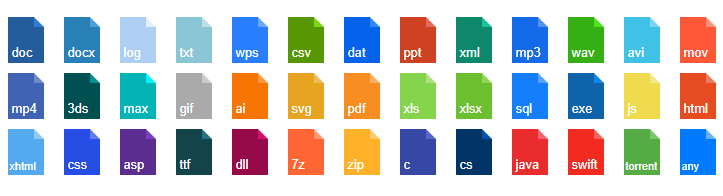
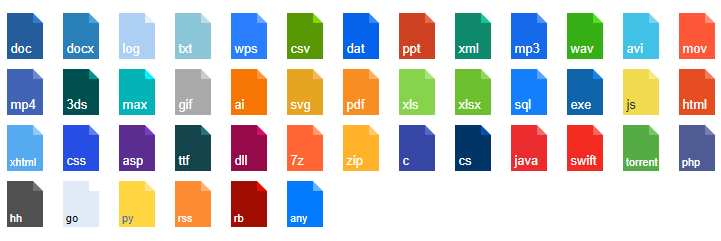
update landing

diff --git a/build/css-file-icons.css b/build/css-file-icons.css
@@ -1,1 +1,1 @@
-.fi{width:36px;height:46px;padding:10px 0 0;position:relative;margin:0 auto;transition:all .2s ease-in-out;cursor:pointer;box-sizing:border-box;font-family:sans-serif;text-decoration:none;display:block}.fi:after,.fi:before{position:absolute;content:"";pointer-events:none}.fi:before{top:0;height:100%;left:0;background-color:#007bff;right:10px}.fi:after{width:0;height:0;border-style:solid;border-width:10px 0 0 10px;border-color:transparent transparent transparent #66b0ff;top:0;right:0}.fi:hover{transform:translateY(-5px)}.fi-content{background-color:#007bff;top:10px;color:#fff;left:0;bottom:0;right:0;padding:16.5px .3em 0;font-size:13px;font-weight:500;position:absolute}.fi-doc.fi:before{background-color:#235d9c}.fi-doc.fi:after{border-left-color:#317dd1}.fi-doc.fi .fi-content{background-color:#235d9c;color:#fff}.fi-docx.fi:before{background-color:#2980b9}.fi-docx.fi:after{border-left-color:#4da1d8}.fi-docx.fi .fi-content{background-color:#2980b9;color:#fff}.fi-log.fi:before{background-color:#accff3}.fi-log.fi:after{border-left-color:#e6f0fb}.fi-log.fi .fi-content{background-color:#accff3;color:#fff}.fi-txt.fi:before{background-color:#8bc6d6}.fi-txt.fi:after{border-left-color:#bcdee7}.fi-txt.fi .fi-content{background-color:#8bc6d6;color:#fff}.fi-wps.fi:before{background-color:#297eff}.fi-wps.fi:after{border-left-color:#6ba6ff}.fi-wps.fi .fi-content{background-color:#297eff;color:#fff}.fi-csv.fi:before{background-color:#579704}.fi-csv.fi:after{border-left-color:#7cd806}.fi-csv.fi .fi-content{background-color:#579704;color:#fff}.fi-dat.fi:before{background-color:#0463ea}.fi-dat.fi:after{border-left-color:#3587fc}.fi-dat.fi .fi-content{background-color:#0463ea;color:#fff}.fi-ppt.fi:before{background-color:#ce4123}.fi-ppt.fi:after{border-left-color:#e26b52}.fi-ppt.fi .fi-content{background-color:#ce4123;color:#fff}.fi-xml.fi:before{background-color:#0e886b}.fi-xml.fi:after{border-left-color:#14c49a}.fi-xml.fi .fi-content{background-color:#0e886b;color:#fff}.fi-mp3.fi:before{background-color:#156aea}.fi-mp3.fi:after{border-left-color:#5291ef}.fi-mp3.fi .fi-content{background-color:#156aea;color:#fff}.fi-wav.fi:before{background-color:#36af14}.fi-wav.fi:after{border-left-color:#4be520}.fi-wav.fi .fi-content{background-color:#36af14;color:#fff}.fi-avi.fi:before{background-color:#40c1e6}.fi-avi.fi:after{border-left-color:#7bd4ee}.fi-avi.fi .fi-content{background-color:#40c1e6;color:#fff}.fi-mov.fi:before{background-color:#ff5838}.fi-mov.fi:after{border-left-color:#ff907a}.fi-mov.fi .fi-content{background-color:#ff5838;color:#fff}.fi-mp4.fi:before{background-color:#4163b4}.fi-mp4.fi:after{border-left-color:#6d89ca}.fi-mp4.fi .fi-content{background-color:#4163b4;color:#fff}.fi-3ds.fi:before{background-color:#015051}.fi-3ds.fi:after{border-left-color:#029192}.fi-3ds.fi .fi-content{background-color:#015051;color:#fff}.fi-max.fi:before{background-color:#02b4b6}.fi-max.fi:after{border-left-color:#03f4f7}.fi-max.fi .fi-content{background-color:#02b4b6;color:#fff}.fi-gif.fi:before{background-color:#aaa}.fi-gif.fi:after{border-left-color:#cbcbcb}.fi-gif.fi .fi-content{background-color:#aaa;color:#fff}.fi-ai.fi:before{background-color:#f67503}.fi-ai.fi:after{border-left-color:#fd983f}.fi-ai.fi .fi-content{background-color:#f67503;color:#fff}.fi-svg.fi:before{background-color:#e6a420}.fi-svg.fi:after{border-left-color:#edbc5c}.fi-svg.fi .fi-content{background-color:#e6a420;color:#fff}.fi-pdf.fi:before{background-color:#f88e21}.fi-pdf.fi:after{border-left-color:#faaf61}.fi-pdf.fi .fi-content{background-color:#f88e21;color:#fff}.fi-xls.fi:before{background-color:#86d44c}.fi-xls.fi:after{border-left-color:#aae181}.fi-xls.fi .fi-content{background-color:#86d44c;color:#fff}.fi-xlsx.fi:before{background-color:#6cbf2e}.fi-xlsx.fi:after{border-left-color:#8ed758}.fi-xlsx.fi .fi-content{background-color:#6cbf2e;color:#fff}.fi-sql.fi:before{background-color:#157efb}.fi-sql.fi:after{border-left-color:#56a2fc}.fi-sql.fi .fi-content{background-color:#157efb;color:#fff}.fi-exe.fi:before{background-color:#0e63ab}.fi-exe.fi:after{border-left-color:#1386e8}.fi-exe.fi .fi-content{background-color:#0e63ab;color:#fff}.fi-js.fi:before{background-color:#f0db4f}.fi-js.fi:after{border-left-color:#f5e78c}.fi-js.fi .fi-content{background-color:#f0db4f;color:#323330}.fi-html.fi:before{background-color:#e54c21}.fi-html.fi:after{border-left-color:#ec7c5c}.fi-html.fi .fi-content{background-color:#e54c21;color:#fff}.fi-xhtml.fi:before{background-color:#55a9ef}.fi-xhtml.fi:after{border-left-color:#92c8f5}.fi-xhtml.fi .fi-content{background-color:#55a9ef;color:#fff}.fi-css.fi:before{background-color:#264de4}.fi-css.fi:after{border-left-color:#617deb}.fi-css.fi .fi-content{background-color:#264de4;color:#fff}.fi-asp.fi:before{background-color:#5c2d91}.fi-asp.fi:after{border-left-color:#7c3dc3}.fi-asp.fi .fi-content{background-color:#5c2d91;color:#fff}.fi-ttf.fi:before{background-color:#14444b}.fi-ttf.fi:after{border-left-color:#22737f}.fi-ttf.fi .fi-content{background-color:#14444b;color:#fff}.fi-dll.fi:before{background-color:#960a4a}.fi-dll.fi:after{border-left-color:#d40e69}.fi-dll.fi .fi-content{background-color:#960a4a;color:#fff}.fi-7z.fi:before{background-color:#f63}.fi-7z.fi:after{border-left-color:#ff9875}.fi-7z.fi .fi-content{background-color:#f63;color:#fff}.fi-zip.fi:before{background-color:#ffb229}.fi-zip.fi:after{border-left-color:#ffca6b}.fi-zip.fi .fi-content{background-color:#ffb229;color:#fff}.fi-c.fi:before{background-color:#3747a5}.fi-c.fi:after{border-left-color:#5767c7}.fi-c.fi .fi-content{background-color:#3747a5;color:#fff}.fi-cs.fi:before{background-color:#013467}.fi-cs.fi:after{border-left-color:#0255a9}.fi-cs.fi .fi-content{background-color:#013467;color:#fff}.fi-java.fi:before{background-color:#ea2c2e}.fi-java.fi:after{border-left-color:#f0686a}.fi-java.fi .fi-content{background-color:#ea2c2e;color:#fff}.fi-swift.fi:before{background-color:#f32a20}.fi-swift.fi:after{border-left-color:#f6665f}.fi-swift.fi .fi-content{background-color:#f32a20;color:#fff}.fi-torrent.fi:before{background-color:#55ac44}.fi-torrent.fi:after{border-left-color:#7bc56d}.fi-torrent.fi .fi-content{background-color:#55ac44;color:#fff}.fi-php.fi:before{background-color:#4f5b93}.fi-php.fi:after{border-left-color:#717db3}.fi-php.fi .fi-content{background-color:#4f5b93;color:#fff}.fi-hh.fi:before{background-color:#505050}.fi-hh.fi:after{border-left-color:#717171}.fi-hh.fi .fi-content{background-color:#505050;color:#fff}.fi-go.fi:before{background-color:#e0ebf5}.fi-go.fi:after{border-left-color:#fff}.fi-go.fi .fi-content{background-color:#e0ebf5;color:#000}.fi-py.fi:before{background-color:#ffd542}.fi-py.fi:after{border-left-color:#ffe484}.fi-py.fi .fi-content{background-color:#ffd542;color:#3472a3}.fi-rss.fi:before{background-color:#fd8b33}.fi-rss.fi:after{border-left-color:#feb075}.fi-rss.fi .fi-content{background-color:#fd8b33;color:#fff}.fi-rb.fi:before{background-color:#a20d01}.fi-rb.fi:after{border-left-color:#e41201}.fi-rb.fi .fi-content{background-color:#a20d01;color:#fff}.fi-size-xs.fi{width:28.8px;height:36.8px;padding-top:8px}.fi-size-xs.fi:before{right:8px}.fi-size-xs.fi:after{border-top-width:8px;border-left-width:8px}.fi-size-xs.fi .fi-content{top:8px;padding-top:13.2px;font-size:10.4px}.fi-size-sm.fi{width:36px;height:46px;padding-top:10px}.fi-size-sm.fi:before{right:10px}.fi-size-sm.fi:after{border-top-width:10px;border-left-width:10px}.fi-size-sm.fi .fi-content{top:10px;padding-top:16.5px;font-size:13px}.fi-size-md.fi{width:43.2px;height:55.2px;padding-top:12px}.fi-size-md.fi:before{right:12px}.fi-size-md.fi:after{border-top-width:12px;border-left-width:12px}.fi-size-md.fi .fi-content{top:12px;padding-top:19.8px;font-size:15.6px}.fi-size-lg.fi{width:54px;height:69px;padding-top:15px}.fi-size-lg.fi:before{right:15px}.fi-size-lg.fi:after{border-top-width:15px;border-left-width:15px}.fi-size-lg.fi .fi-content{top:15px;padding-top:24.75px;font-size:19.5px}.fi-size-xl.fi{width:72px;height:92px;padding-top:20px}.fi-size-xl.fi:before{right:20px}.fi-size-xl.fi:after{border-top-width:20px;border-left-width:20px}.fi-size-xl.fi .fi-content{top:20px;padding-top:33px;font-size:26px}.fi-content-xs .fi-content{font-size:11px;padding-top:55%}
+.fi{width:36px;height:46px;padding:10px 0 0;position:relative;margin:0 auto;transition:all .2s ease-in-out;cursor:pointer;box-sizing:border-box;font-family:sans-serif;text-decoration:none;display:block}.fi:after,.fi:before{position:absolute;content:"";pointer-events:none}.fi:before{top:0;height:100%;left:0;background-color:#007bff;right:10px}.fi:after{width:0;height:0;border-style:solid;border-width:10px 0 0 10px;border-color:transparent transparent transparent #66b0ff;top:0;right:0}.fi:hover{transform:translateY(-5px)}.fi-content{background-color:#007bff;top:10px;color:#fff;left:0;bottom:0;right:0;padding:16.5px .3em 0;font-size:13px;font-weight:500;position:absolute}.fi-doc.fi:before{background-color:#235d9c}.fi-doc.fi:after{border-left-color:#317dd1}.fi-doc.fi .fi-content{background-color:#235d9c;color:#fff}.fi-docx.fi:before{background-color:#2980b9}.fi-docx.fi:after{border-left-color:#4da1d8}.fi-docx.fi .fi-content{background-color:#2980b9;color:#fff}.fi-log.fi:before{background-color:#accff3}.fi-log.fi:after{border-left-color:#e6f0fb}.fi-log.fi .fi-content{background-color:#accff3;color:#fff}.fi-txt.fi:before{background-color:#8bc6d6}.fi-txt.fi:after{border-left-color:#bcdee7}.fi-txt.fi .fi-content{background-color:#8bc6d6;color:#fff}.fi-wps.fi:before{background-color:#297eff}.fi-wps.fi:after{border-left-color:#6ba6ff}.fi-wps.fi .fi-content{background-color:#297eff;color:#fff}.fi-csv.fi:before{background-color:#579704}.fi-csv.fi:after{border-left-color:#7cd806}.fi-csv.fi .fi-content{background-color:#579704;color:#fff}.fi-dat.fi:before{background-color:#0463ea}.fi-dat.fi:after{border-left-color:#3587fc}.fi-dat.fi .fi-content{background-color:#0463ea;color:#fff}.fi-ppt.fi:before{background-color:#ce4123}.fi-ppt.fi:after{border-left-color:#e26b52}.fi-ppt.fi .fi-content{background-color:#ce4123;color:#fff}.fi-xml.fi:before{background-color:#0e886b}.fi-xml.fi:after{border-left-color:#14c49a}.fi-xml.fi .fi-content{background-color:#0e886b;color:#fff}.fi-mp3.fi:before{background-color:#156aea}.fi-mp3.fi:after{border-left-color:#5291ef}.fi-mp3.fi .fi-content{background-color:#156aea;color:#fff}.fi-wav.fi:before{background-color:#36af14}.fi-wav.fi:after{border-left-color:#4be520}.fi-wav.fi .fi-content{background-color:#36af14;color:#fff}.fi-avi.fi:before{background-color:#40c1e6}.fi-avi.fi:after{border-left-color:#7bd4ee}.fi-avi.fi .fi-content{background-color:#40c1e6;color:#fff}.fi-mov.fi:before{background-color:#ff5838}.fi-mov.fi:after{border-left-color:#ff907a}.fi-mov.fi .fi-content{background-color:#ff5838;color:#fff}.fi-mp4.fi:before{background-color:#4163b4}.fi-mp4.fi:after{border-left-color:#6d89ca}.fi-mp4.fi .fi-content{background-color:#4163b4;color:#fff}.fi-3ds.fi:before{background-color:#015051}.fi-3ds.fi:after{border-left-color:#029192}.fi-3ds.fi .fi-content{background-color:#015051;color:#fff}.fi-max.fi:before{background-color:#02b4b6}.fi-max.fi:after{border-left-color:#03f4f7}.fi-max.fi .fi-content{background-color:#02b4b6;color:#fff}.fi-gif.fi:before{background-color:#aaa}.fi-gif.fi:after{border-left-color:#cbcbcb}.fi-gif.fi .fi-content{background-color:#aaa;color:#fff}.fi-ai.fi:before{background-color:#f67503}.fi-ai.fi:after{border-left-color:#fd983f}.fi-ai.fi .fi-content{background-color:#f67503;color:#fff}.fi-svg.fi:before{background-color:#e6a420}.fi-svg.fi:after{border-left-color:#edbc5c}.fi-svg.fi .fi-content{background-color:#e6a420;color:#fff}.fi-pdf.fi:before{background-color:#f88e21}.fi-pdf.fi:after{border-left-color:#faaf61}.fi-pdf.fi .fi-content{background-color:#f88e21;color:#fff}.fi-xls.fi:before{background-color:#86d44c}.fi-xls.fi:after{border-left-color:#aae181}.fi-xls.fi .fi-content{background-color:#86d44c;color:#fff}.fi-xlsx.fi:before{background-color:#6cbf2e}.fi-xlsx.fi:after{border-left-color:#8ed758}.fi-xlsx.fi .fi-content{background-color:#6cbf2e;color:#fff}.fi-sql.fi:before{background-color:#157efb}.fi-sql.fi:after{border-left-color:#56a2fc}.fi-sql.fi .fi-content{background-color:#157efb;color:#fff}.fi-exe.fi:before{background-color:#0e63ab}.fi-exe.fi:after{border-left-color:#1386e8}.fi-exe.fi .fi-content{background-color:#0e63ab;color:#fff}.fi-js.fi:before{background-color:#f0db4f}.fi-js.fi:after{border-left-color:#f5e78c}.fi-js.fi .fi-content{background-color:#f0db4f;color:#323330}.fi-html.fi:before{background-color:#e54c21}.fi-html.fi:after{border-left-color:#ec7c5c}.fi-html.fi .fi-content{background-color:#e54c21;color:#fff}.fi-xhtml.fi:before{background-color:#55a9ef}.fi-xhtml.fi:after{border-left-color:#92c8f5}.fi-xhtml.fi .fi-content{background-color:#55a9ef;color:#fff}.fi-css.fi:before{background-color:#264de4}.fi-css.fi:after{border-left-color:#617deb}.fi-css.fi .fi-content{background-color:#264de4;color:#fff}.fi-asp.fi:before{background-color:#5c2d91}.fi-asp.fi:after{border-left-color:#7c3dc3}.fi-asp.fi .fi-content{background-color:#5c2d91;color:#fff}.fi-ttf.fi:before{background-color:#14444b}.fi-ttf.fi:after{border-left-color:#22737f}.fi-ttf.fi .fi-content{background-color:#14444b;color:#fff}.fi-dll.fi:before{background-color:#960a4a}.fi-dll.fi:after{border-left-color:#d40e69}.fi-dll.fi .fi-content{background-color:#960a4a;color:#fff}.fi-7z.fi:before{background-color:#f63}.fi-7z.fi:after{border-left-color:#ff9875}.fi-7z.fi .fi-content{background-color:#f63;color:#fff}.fi-zip.fi:before{background-color:#ffb229}.fi-zip.fi:after{border-left-color:#ffca6b}.fi-zip.fi .fi-content{background-color:#ffb229;color:#fff}.fi-c.fi:before{background-color:#3747a5}.fi-c.fi:after{border-left-color:#5767c7}.fi-c.fi .fi-content{background-color:#3747a5;color:#fff}.fi-cs.fi:before{background-color:#013467}.fi-cs.fi:after{border-left-color:#0255a9}.fi-cs.fi .fi-content{background-color:#013467;color:#fff}.fi-java.fi:before{background-color:#ea2c2e}.fi-java.fi:after{border-left-color:#f0686a}.fi-java.fi .fi-content{background-color:#ea2c2e;color:#fff}.fi-swift.fi:before{background-color:#f32a20}.fi-swift.fi:after{border-left-color:#f6665f}.fi-swift.fi .fi-content{background-color:#f32a20;color:#fff}.fi-torrent.fi:before{background-color:#55ac44}.fi-torrent.fi:after{border-left-color:#7bc56d}.fi-torrent.fi .fi-content{background-color:#55ac44;color:#fff}.fi-php.fi:before{background-color:#4f5b93}.fi-php.fi:after{border-left-color:#717db3}.fi-php.fi .fi-content{background-color:#4f5b93;color:#fff}.fi-hh.fi:before{background-color:#505050}.fi-hh.fi:after{border-left-color:#717171}.fi-hh.fi .fi-content{background-color:#505050;color:#fff}.fi-go.fi:before{background-color:#e0ebf5}.fi-go.fi:after{border-left-color:#fff}.fi-go.fi .fi-content{background-color:#e0ebf5;color:#000}.fi-py.fi:before{background-color:#ffd542}.fi-py.fi:after{border-left-color:#ffe484}.fi-py.fi .fi-content{background-color:#ffd542;color:#3472a3}.fi-rss.fi:before{background-color:#fd8b33}.fi-rss.fi:after{border-left-color:#feb075}.fi-rss.fi .fi-content{background-color:#fd8b33;color:#fff}.fi-rb.fi:before{background-color:#a20d01}.fi-rb.fi:after{border-left-color:#e41201}.fi-rb.fi .fi-content{background-color:#a20d01;color:#fff}.fi-size-xs.fi{width:28.8px;height:36.8px;padding-top:8px}.fi-size-xs.fi:before{right:8px}.fi-size-xs.fi:after{border-top-width:8px;border-left-width:8px}.fi-size-xs.fi .fi-content{top:8px;padding-top:13.2px;font-size:10.4px}.fi-size-sm.fi{width:36px;height:46px;padding-top:10px}.fi-size-sm.fi:before{right:10px}.fi-size-sm.fi:after{border-top-width:10px;border-left-width:10px}.fi-size-sm.fi .fi-content{top:10px;padding-top:16.5px;font-size:13px}.fi-size-md.fi{width:43.2px;height:55.2px;padding-top:12px}.fi-size-md.fi:before{right:12px}.fi-size-md.fi:after{border-top-width:12px;border-left-width:12px}.fi-size-md.fi .fi-content{top:12px;padding-top:19.8px;font-size:15.6px}.fi-size-lg.fi{width:54px;height:69px;padding-top:15px}.fi-size-lg.fi:before{right:15px}.fi-size-lg.fi:after{border-top-width:15px;border-left-width:15px}.fi-size-lg.fi .fi-content{top:15px;padding-top:24.75px;font-size:19.5px}.fi-size-xl.fi{width:72px;height:92px;padding-top:20px}.fi-size-xl.fi:before{right:20px}.fi-size-xl.fi:after{border-top-width:20px;border-left-width:20px}.fi-size-xl.fi .fi-content{top:20px;padding-top:33px;font-size:26px}.fi-content-xs .fi-content{font-size:11px;padding-top:55%}body{font-family:Roboto,Helvetica Neue,Helvetica,Arial,sans-serif;margin:0;padding:0;line-height:1.6}h1,h2,h3,h4,h5{font-weight:500;color:#212121}.fi-list{font-size:0;margin:0 -10px}.fi-list .fi{margin:0 10px 10px;display:inline-block}.container{width:720px;margin:0 auto}.btn{padding:8px 21px;display:inline-block;background-color:#157efb;color:#fff;text-decoration:none;border:0;line-height:1;vertical-align:top}.btn:hover{background-color:#0465d9}hr{border:0;border-bottom:1px solid #e7e7e7;margin:2em 0}.code.prettyprint{border:0;border-left:.3rem solid #e7e7e7;color:#655d5d}.code-content{border-radius:0;display:block;padding:1rem 1.2rem;white-space:pre}.page-content{padding:0 0 50px}.page-header{background-color:#f4f5f6;padding:32px 0}.page-header h1{color:#157efb}.page-header .btn{margin-right:10px}.page-footer{background-color:#f4f5f6;padding:16px 0;text-align:center;font-size:13px}.mb-3{margin-bottom:30px}

diff --git a/build/bundle.js b/build/bundle.js
@@ -1,1 +1,1 @@
-!function(t){function o(n){if(r[n])return r[n].exports;var i=r[n]={exports:{},id:n,loaded:!1};return t[n].call(i.exports,i,i.exports,o),i.loaded=!0,i.exports}var r={};return o.m=t,o.c=r,o.p="https://colorswall.github.io/CSS-file-icons/build/",o(0)}([function(t,o,r){r(1)},function(t,o,r){"use strict";r(2)},function(t,o){}]);
+!function(t){function o(r){if(n[r])return n[r].exports;var i=n[r]={exports:{},id:r,loaded:!1};return t[r].call(i.exports,i,i.exports,o),i.loaded=!0,i.exports}var n={};return o.m=t,o.c=n,o.p="https://colorswall.github.io/CSS-file-icons/build/",o(0)}([function(t,o,n){n(1)},function(t,o,n){"use strict";n(3),n(2)},function(t,o){},function(t,o){}]);
